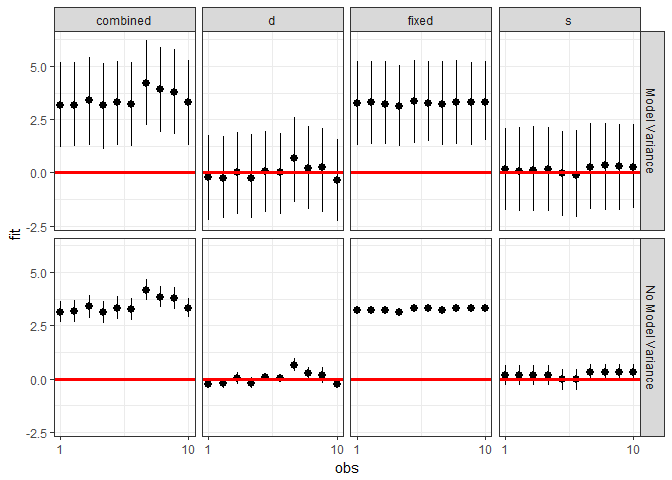
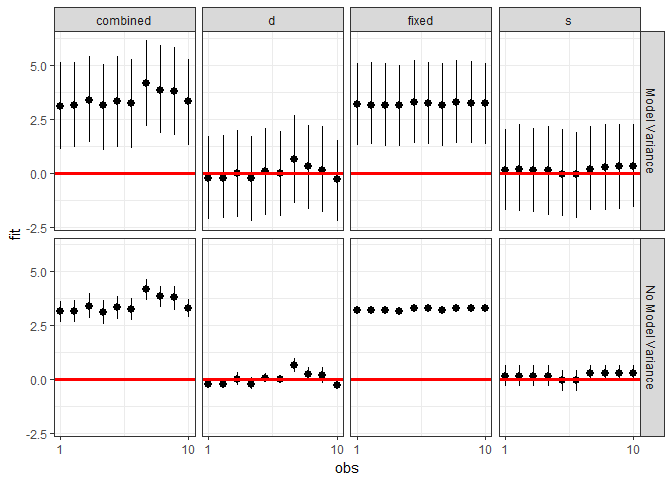
whoops forgot to rebuild Readme

diff --git a/README.md b/README.md
@@ -110,16 +110,16 @@ With `predictInterval` we obtain predictions that are more like the standard obj
 predictInterval(m1, newdata = InstEval[1:10, ], n.sims = 500, level = 0.9, 
                 stat = 'median')
 #>         fit      upr      lwr
-#> 1  3.102474 5.236406 1.192548
-#> 2  3.295667 5.232050 1.174451
-#> 3  3.447091 5.444162 1.337675
-#> 4  3.051432 4.971109 1.261833
-#> 5  3.326784 5.367482 1.117220
-#> 6  3.189199 5.143497 1.496050
-#> 7  4.180856 6.225887 2.219989
-#> 8  3.928560 5.921551 2.061202
-#> 9  3.809693 5.788328 1.796161
-#> 10 3.430701 5.455156 1.499765
+#> 1  3.130795 5.065004 1.037873
+#> 2  3.173705 5.174550 1.204999
+#> 3  3.336104 5.479436 1.134151
+#> 4  3.077739 5.081643 1.172218
+#> 5  3.266686 5.157929 1.430411
+#> 6  3.287117 5.357937 1.236689
+#> 7  4.207267 6.386736 2.291402
+#> 8  3.749406 5.843084 1.619215
+#> 9  3.835742 5.704999 1.744970
+#> 10 3.242602 5.140361 1.093461
 ```
 
 Note that `predictInterval` is slower because it is computing simulations. It can also return all of the simulated `yhat` values as an attribute to the predict object itself.
@@ -133,47 +133,47 @@ We can also explore the components of the prediction interval by asking `predict
 ``` r
 predictInterval(m1, newdata = InstEval[1:10, ], n.sims = 200, level = 0.9, 
                 stat = 'median', which = "all")
-#>      effect         fit      upr       lwr obs
-#> 1  combined  3.21161258 5.319647  1.178516   1
-#> 2  combined  3.16186935 4.924017  1.177790   2
-#> 3  combined  3.36855715 5.164374  1.706623   3
-#> 4  combined  3.18975489 5.067483  1.153070   4
-#> 5  combined  3.28178669 5.012098  1.305008   5
-#> 6  combined  3.33090873 5.134874  1.057878   6
-#> 7  combined  3.91529090 5.885955  1.875913   7
-#> 8  combined  3.80670528 5.859389  1.922122   8
-#> 9  combined  3.96125035 5.769473  1.495732   9
-#> 10 combined  3.46951678 5.165851  1.244634  10
-#> 11        s  0.14367301 2.144390 -1.841787   1
-#> 12        s  0.22193329 2.284173 -1.425292   2
-#> 13        s  0.08944556 2.210515 -2.138321   3
-#> 14        s  0.23117493 1.996168 -1.707685   4
-#> 15        s -0.06645497 1.963605 -1.996932   5
-#> 16        s -0.23284608 2.015788 -2.266432   6
-#> 17        s  0.22652984 2.251893 -1.527731   7
-#> 18        s  0.10208455 2.281827 -1.813819   8
-#> 19        s  0.15891847 2.288568 -1.900618   9
-#> 20        s  0.31121584 2.193857 -1.874738  10
-#> 21        d -0.23767265 1.705684 -1.880467   1
-#> 22        d -0.33547181 1.581980 -2.070901   2
-#> 23        d -0.06639804 2.210045 -1.802223   3
-#> 24        d -0.21123183 1.653691 -2.090981   4
-#> 25        d  0.11235128 2.029360 -1.728519   5
-#> 26        d  0.10877636 1.909676 -1.876703   6
-#> 27        d  0.93390054 2.468244 -1.390469   7
-#> 28        d  0.21049889 2.162436 -1.758649   8
-#> 29        d  0.04285633 2.343796 -2.055756   9
-#> 30        d -0.17446663 1.613849 -2.338567  10
-#> 31    fixed  3.06318626 5.006071  1.429051   1
-#> 32    fixed  3.01012545 5.035036  1.232748   2
-#> 33    fixed  3.33288284 5.070794  1.367818   3
-#> 34    fixed  2.97596186 5.046913  1.246229   4
-#> 35    fixed  3.20840602 5.261907  1.440324   5
-#> 36    fixed  3.28284181 5.266927  1.622155   6
-#> 37    fixed  3.08369143 4.901249  1.510426   7
-#> 38    fixed  3.35815811 5.020734  1.294276   8
-#> 39    fixed  3.20195729 5.604318  1.353049   9
-#> 40    fixed  3.35422041 5.358624  1.339721  10
+#>      effect          fit      upr        lwr obs
+#> 1  combined  3.111958396 4.943808  1.4940381   1
+#> 2  combined  3.093686527 5.176210  1.3065683   2
+#> 3  combined  3.511803411 5.571129  1.4670349   3
+#> 4  combined  3.119560118 5.131889  1.1799435   4
+#> 5  combined  3.467088530 5.331159  1.1681849   5
+#> 6  combined  3.245864630 4.904752  1.4033114   6
+#> 7  combined  4.036193541 6.115898  2.0621964   7
+#> 8  combined  3.748513632 6.003187  2.0076774   8
+#> 9  combined  3.641876664 5.748033  1.4159384   9
+#> 10 combined  3.471088174 5.401857  1.3361724  10
+#> 11        s  0.248861309 1.811232 -1.6659799   1
+#> 12        s  0.128459923 1.789694 -1.9671084   2
+#> 13        s  0.008273590 1.848639 -1.9829211   3
+#> 14        s -0.021331241 2.153596 -1.8696251   4
+#> 15        s -0.007988803 2.125942 -2.0536626   5
+#> 16        s -0.085890059 1.929190 -1.8668811   6
+#> 17        s  0.394389421 2.190647 -1.5763180   7
+#> 18        s  0.253751751 2.210885 -1.6850443   8
+#> 19        s  0.455742843 2.395393 -1.5149178   9
+#> 20        s  0.386316751 2.514216 -1.8126796  10
+#> 21        d -0.215339888 2.042615 -2.3122159   1
+#> 22        d -0.152624069 1.747182 -1.9035313   2
+#> 23        d  0.050604270 1.500330 -2.1501256   3
+#> 24        d -0.133137713 1.861121 -2.1178827   4
+#> 25        d  0.249281449 2.053201 -1.7444232   5
+#> 26        d -0.026607427 1.732352 -1.8295888   6
+#> 27        d  0.669601437 2.759213 -1.0721587   7
+#> 28        d  0.417240514 2.375744 -1.7609038   8
+#> 29        d  0.079489553 2.022910 -1.7510263   9
+#> 30        d -0.330320125 1.735718 -2.1207048  10
+#> 31    fixed  2.953071789 4.883953  0.9544711   1
+#> 32    fixed  3.184726344 5.147560  1.1700889   2
+#> 33    fixed  3.130405050 5.175959  1.3433845   3
+#> 34    fixed  3.093313641 5.133146  1.0166365   4
+#> 35    fixed  3.298838876 5.143941  1.1291235   5
+#> 36    fixed  3.305773810 5.469737  1.3239511   6
+#> 37    fixed  3.222028828 5.126309  1.4131123   7
+#> 38    fixed  3.226066893 4.971335  1.0319547   8
+#> 39    fixed  3.202844458 4.956589  1.4295938   9
+#> 40    fixed  3.307815030 5.261969  1.3366628  10
 ```
 
 This can lead to some useful plotting:
@@ -220,12 +220,12 @@ Plotting
 feSims <- FEsim(m1, n.sims = 100)
 head(feSims)
 #>          term        mean      median         sd
-#> 1 (Intercept)  3.22267705  3.22452269 0.02213727
-#> 2    service1 -0.07260187 -0.07423609 0.01313804
-#> 3   lectage.L -0.18501808 -0.18751759 0.01818921
-#> 4   lectage.Q  0.02405490  0.02441686 0.01186001
-#> 5   lectage.C -0.02459851 -0.02408909 0.01346501
-#> 6   lectage^4 -0.02335060 -0.02325181 0.01242481
+#> 1 (Intercept)  3.22407319  3.22097382 0.01853156
+#> 2    service1 -0.07218953 -0.07229397 0.01428395
+#> 3   lectage.L -0.18334696 -0.18383850 0.01807314
+#> 4   lectage.Q  0.02335868  0.02397666 0.01158134
+#> 5   lectage.C -0.02368226 -0.02613050 0.01401145
+#> 6   lectage^4 -0.02027953 -0.01961439 0.01386055
 ```
 
 And we can also plot this:
@@ -242,12 +242,12 @@ We can also quickly make caterpillar plots for the random-effect terms:
 reSims <- REsim(m1, n.sims = 100)
 head(reSims)
 #>   groupFctr groupID        term        mean      median        sd
-#> 1         s       1 (Intercept)  0.09277845  0.08215722 0.3187676
-#> 2         s       2 (Intercept) -0.02007281 -0.04535959 0.3204536
-#> 3         s       3 (Intercept)  0.29955776  0.31264600 0.3169339
-#> 4         s       4 (Intercept)  0.23004921  0.22741757 0.2896952
-#> 5         s       5 (Intercept)  0.07953611  0.07506486 0.3063931
-#> 6         s       6 (Intercept)  0.12394938  0.11199365 0.2513063
+#> 1         s       1 (Intercept)  0.16845279  0.17648452 0.3301535
+#> 2         s       2 (Intercept) -0.04663002 -0.03422610 0.3245762
+#> 3         s       3 (Intercept)  0.29151513  0.30577969 0.3076025
+#> 4         s       4 (Intercept)  0.21749434  0.21539088 0.3070408
+#> 5         s       5 (Intercept)  0.01928655  0.01486791 0.3020013
+#> 6         s       6 (Intercept)  0.10590551  0.10215057 0.1858483
 ```
 
 ``` r
@@ -278,12 +278,12 @@ A nice features `expectedRank` is that you can return the expected rank for all 
 ranks <- expectedRank(m1)
 head(ranks)
 #>   groupFctr groupLevel       term    estimate  std.error       ER pctER
-#> 2         s          1 _Intercept  0.16732717 0.08165627 1931.568    65
-#> 3         s          2 _Intercept -0.04409512 0.09234201 1368.161    46
-#> 4         s          3 _Intercept  0.30382116 0.05204066 2309.940    78
-#> 5         s          4 _Intercept  0.24756072 0.06641674 2151.827    72
-#> 6         s          5 _Intercept  0.05232306 0.08174091 1627.693    55
-#> 7         s          6 _Intercept  0.10191617 0.06648369 1772.548    60
+#> 2         s          1 _Intercept  0.16732718 0.08165628 1931.568    65
+#> 3         s          2 _Intercept -0.04409513 0.09234202 1368.161    46
+#> 4         s          3 _Intercept  0.30382117 0.05204066 2309.940    78
+#> 5         s          4 _Intercept  0.24756074 0.06641674 2151.827    72
+#> 6         s          5 _Intercept  0.05232307 0.08174092 1627.693    55
+#> 7         s          6 _Intercept  0.10191618 0.06648369 1772.548    60
 
 ggplot(ranks, aes(x = term, y = estimate)) + 
   geom_violin(fill = "gray50") + facet_wrap(~groupFctr) +
@@ -303,11 +303,11 @@ impSim <- REimpact(m1, InstEval[7, ], groupFctr = "d", breaks = 5,
 #> Warning: executing %dopar% sequentially: no parallel backend registered
 impSim
 #>   case bin   AvgFit     AvgFitSE nobs
-#> 1    1   1 2.766249 2.987675e-04  193
-#> 2    1   2 3.235268 6.437037e-05  240
-#> 3    1   3 3.518711 5.618275e-05  254
-#> 4    1   4 3.810250 6.907703e-05  265
-#> 5    1   5 4.194120 1.761070e-04  176
+#> 1    1   1 2.776327 2.864048e-04  193
+#> 2    1   2 3.233531 7.277366e-05  240
+#> 3    1   3 3.551668 5.668469e-05  254
+#> 4    1   4 3.816491 5.903682e-05  265
+#> 5    1   5 4.197212 1.880704e-04  176
 ```
 
 The result of `REimpact` shows the change in the `yhat` as the case we supplied to `newdata` is moved from the first to the fifth quintile in terms of the magnitude of the group factor coefficient. We can see here that the individual professor effect has a strong impact on the outcome variable. This can be shown graphically as well:
@@ -335,7 +335,7 @@ fmVA <- glmer(r2 ~ (Anger + Gender + btype + situ)^2 +
            (1|id) + (1|item), family = binomial, 
            data = VerbAgg)
 #> Warning in checkConv(attr(opt, "derivs"), opt$par, ctrl = control
-#> $checkConv, : Model failed to converge with max|grad| = 0.028633 (tol =
+#> $checkConv, : Model failed to converge with max|grad| = 0.0534956 (tol =
 #> 0.001, component 1)
 ```
 
@@ -349,16 +349,16 @@ newData <- wiggle(newData, var = "situ", values = unique(VerbAgg$situ))
 newData <- wiggle(newData, var = "Anger", values = unique(VerbAgg$Anger))
 head(newData, 10)
 #>    r2 Anger Gender btype  situ id        item
-#> 1   N    20      F curse other  3 S3WantCurse
-#> 2   N    20      F scold other  3 S3WantCurse
-#> 3   N    20      F shout other  3 S3WantCurse
-#> 4   N    20      F curse  self  3 S3WantCurse
-#> 5   N    20      F scold  self  3 S3WantCurse
-#> 6   N    20      F shout  self  3 S3WantCurse
-#> 7   N    11      F curse other  3 S3WantCurse
-#> 8   N    11      F scold other  3 S3WantCurse
-#> 9   N    11      F shout other  3 S3WantCurse
-#> 10  N    11      F curse  self  3 S3WantCurse
+#> 1   N    20      F curse other  5 S3WantCurse
+#> 2   N    20      F scold other  5 S3WantCurse
+#> 3   N    20      F shout other  5 S3WantCurse
+#> 4   N    20      F curse  self  5 S3WantCurse
+#> 5   N    20      F scold  self  5 S3WantCurse
+#> 6   N    20      F shout  self  5 S3WantCurse
+#> 7   N    11      F curse other  5 S3WantCurse
+#> 8   N    11      F scold other  5 S3WantCurse
+#> 9   N    11      F shout other  5 S3WantCurse
+#> 10  N    11      F curse  self  5 S3WantCurse
 ```
 
 The next step is familiar -- we simply pass this new dataset to `predictInterval` in order to generate predictions for these counterfactuals. Then we plot the predicted values against the continuous variable, `Anger`, and facet and group on the two categorical variables `situ` and `btype` respectively.
